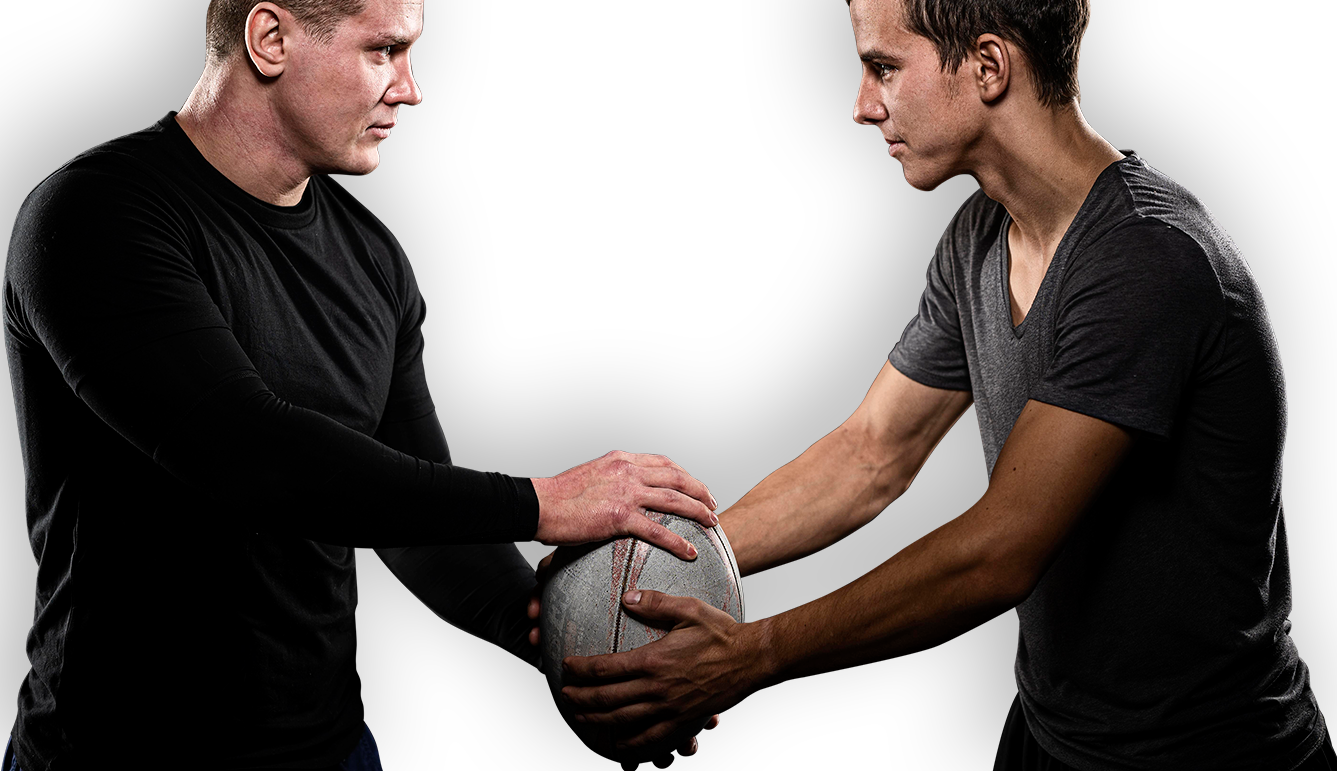
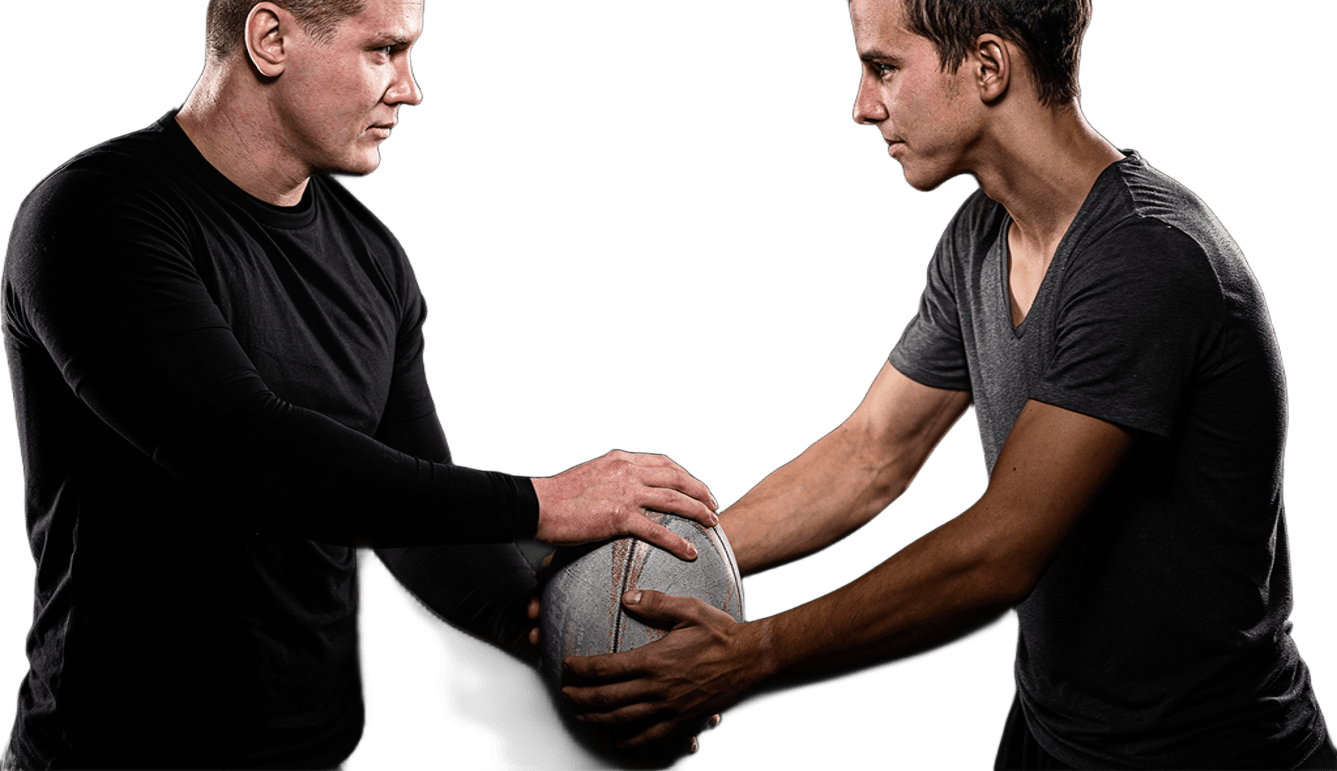
mediaquerys y arreglos menores

diff --git a/css/responsive.css b/css/responsive.css
@@ -9,7 +9,7 @@
     }
 }
 
-@media (max-width: 1100px) {
+@media (max-width: 1130px) {
     
     .name-event {
         font-size: 40px;
@@ -20,13 +20,23 @@
         text-align: center;
     }
 
+    .page-teams__teams {
+        margin-top: 15%;
+    }
+
     .signin-information__text, .page-teams-information__text, .footer-section__item {
         font-size: 1.2rem;
         line-height: 35px;
     }
 }
 
-@media (max-width: 830px) {
+@media (max-width: 930px) {
+
+  .nav {
+    justify-content: space-between;
+    position: relative;
+    border-bottom: 1px solid var(--colorSecundario);
+  }
 
     .nav__link {
         display: none;
@@ -36,9 +46,51 @@
         padding: 5px 0;
     }
 
+    .menu-check {
+      display: block;
+      cursor: pointer;
+    }
+
+    .menu-check__icon {
+      font-size: 1.4rem;
+    }
+
+    .container-menu {
+      display: flex;
+      position: absolute;
+      top: -500px;
+      z-index: 2;
+    }
+    
+    .nav-check {
+      width: 300px;
+      display: flex;
+      flex-direction: column;
+    }
+
+    .nav-check__link {
+      text-decoration: none;
+      color: var(--colorSecundario);
+      padding: 10px 0;
+      border-bottom: 1px solid var(--colorSecundario);
+      width: 100%;
+      text-align: center;
+      font-weight: 500;
+    }
+
+    .nav-check__link:hover {
+      background-color: #027e85;
+    }
+    
+    .input-connect:checked ~ .container-menu {
+      background-color: var(--colorPrincipal);
+      top: 13%;
+      right: 60px;
+    }
+
     .main-page {
         margin-bottom: 50px;
-        padding: 10px;
+        padding: 60px;
     }
 
     .main-page__container-img {
@@ -145,14 +197,14 @@
     }
     
     .page-teams__container {
-        margin-top: 110px;
-        width: 70%;
+      margin-top: 150px;
+        width: 60vw;
         height: 70vh;
     }
     
     .img-page__img--team {
-        width: 120%;
-        right: -5%;
+        width: 75vw;
+        right: -7%;
         height: 84vh;
     }
 
@@ -209,10 +261,7 @@
     }   
 
     .next-pages--video {
-        rotate: -180deg;
-        top: 0;
-        bottom: -250%;
-        right: 40%;
+        display: none;
     }
 
     .section-cards__title {
@@ -241,18 +290,37 @@
     }
 }
 
-@media (max-width: 500px) {
+@media (max-width: 799px) {
+    .page-teams__container {
+        margin-top: 110px;
+        width: 60%;
+        height: 40vh;
+    }
+    
+    .img-page__img--team {
+        width: 120%;
+        right: -5%;
+        height: 48vh;
+    }
+
+}
+
+@media (max-width: 600px) {
+
+  .signin-information__title {
+    margin-right: 0;
+  }
 
     .page-teams__container {
         margin-top: 110px;
         width: 70%;
-        height: 55vh;
+        height: 40vh;
     }
 
     .img-page__img--team {
         width: 120%;
         right: -5%;
-        height: 66vh;
+        height: 48vh;
     }
 
     .page-video {
@@ -275,5 +343,19 @@
     .footer__sections {
         flex-direction: column;
         gap: 20px;
+    }
+}
+
+@media (max-width: 450px) {
+  .page-teams__container {
+        margin-top: 110px;
+        width: 60%;
+        height: 35vh;
+    }
+    
+    .img-page__img--team {
+        width: 120%;
+        right: -5%;
+        height: 42vh;
     }
 }

diff --git a/index.html b/index.html
@@ -19,7 +19,20 @@
       <a href="#" class="nav__link">SERVICES</a>
       <a href="#" class="nav__link">CONTACT</a>
       <a href="#" class="nav__link">SIGN IN</a>
+      <label for="menu" class="menu-check">
+        <i class="ri-menu-line menu-check__icon"></i>
+      </label>
     </nav>
+    <input type="checkbox" id="menu" class="input-connect">
+    <div class="container-menu">
+      <nav class="nav-check">
+        <a href="#" class="nav-check__link">HOME</a>
+        <a href="#" class="nav-check__link">ABOUT</a>
+        <a href="#" class="nav-check__link">SERVICES</a>
+        <a href="#" class="nav-check__link">CONTACT</a>
+        <a href="#" class="nav-check__link">SIGN IN</a>
+      </nav>
+    </div>
   </header>
   <main>
     <section class="main-page">

diff --git a/css/header.css b/css/header.css
@@ -1,6 +1,6 @@
 /* Header */
 .header {
-  padding: 50px 10px 0;
+  padding: 50px 60px 0;
   width: 100%;
   margin-bottom: 1px;
   display: flex;
@@ -8,11 +8,11 @@
 }
 
 .nav {
-  background-color: #11f2ff;
+  background-color: var(--colorPrincipal);
   display: flex;
   align-items: center;
   justify-content: space-around;
-  padding: 0 40px;
+  padding: 0 0 0 40px;
   font-weight: 1000;
 }
 
@@ -30,4 +30,14 @@
   padding: 25px;
   color: var(--colorSecundario);
   text-decoration: none;
+  width: 100%;
+  text-align: center;
+}
+
+.nav__link:hover {
+  background-color: #027e85;
+}
+
+.menu-check, .container-menu, .input-connect {
+  display: none;
 }

diff --git a/css/section_principal.css b/css/section_principal.css
@@ -12,16 +12,16 @@
 .main-page__container-img {
   width: 100%;
   position: absolute;
-  top: 0;
   left: 5%;
   height: 85%;
-  z-index: 2;
+  z-index: 1;
 }
 
 .main-page__img {
   width: 95%;
   height: 100%;
   /* top: 0; */
+  filter: drop-shadow(0 0 30px var(--colorSecundario));
 }
 
 .next-pages {

diff --git a/css/section_teams.css b/css/section_teams.css
@@ -2,6 +2,7 @@
   display: flex;
   flex-direction: column;
   margin: 100px 0;
+  padding: 0 20px;
 }
 
 .page-teams-information{ 
@@ -46,7 +47,7 @@
 
 .page-teams__container {
   background-color: var(--colorPrincipal);
-  width: 25%;
+  width: 400px;
   height: 50vh;
   position: relative;
 }

diff --git a/css/section_signin_invested.css b/css/section_signin_invested.css
@@ -17,8 +17,8 @@
   margin-left: 20%;
 }
 
-.signin-information__text--invested {
-  margin-right: 27%;
+.signin-information__text--invested, .signin-information__title {
+  margin-right: 20%;
 }
 
 .img-page--invested {

diff --git a/css/section_time_event.css b/css/section_time_event.css
@@ -1,7 +1,7 @@
 /* Section time-event */
 
 .date-event {
-  margin-top: -200px;
+  margin-top: -180px;
   width: 100%;
   height: 250px;
   background-color: var(--colorPrincipal);

diff --git a/css/setcion_signin.css b/css/setcion_signin.css
@@ -33,6 +33,7 @@
   width: 120%;
   z-index: 1;
   height: 70vh;
+  filter: drop-shadow(0 0 30px var(--colorSecundario));
 }
 
 .signin-information {

diff --git a/css/footer.css b/css/footer.css
@@ -1,6 +1,6 @@
 .footer {
     background-color: var(--colorPrincipal);
-    padding: 100px ;
+    padding: 100px 80px;
 }
 
 .footer__sections {

diff --git a/css/section_video.css b/css/section_video.css
@@ -62,6 +62,7 @@
     font-size: 2.5rem;
     text-align: center;
     margin-left: 5%;
+    z-index: 2;
 }
 
 .name-event--video{ 
